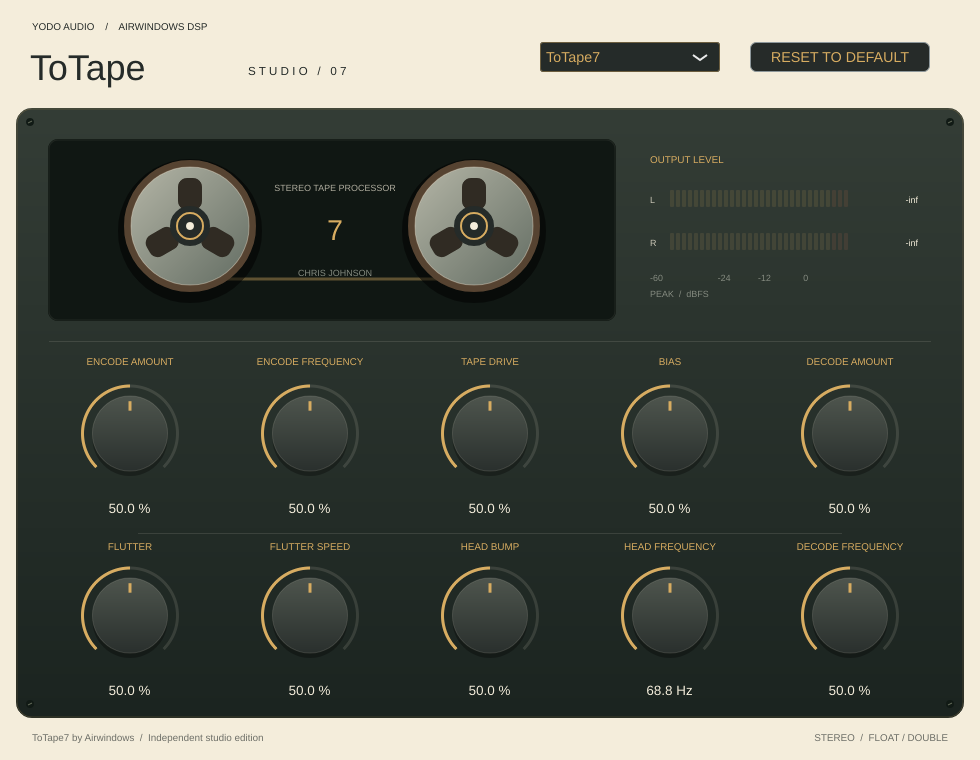
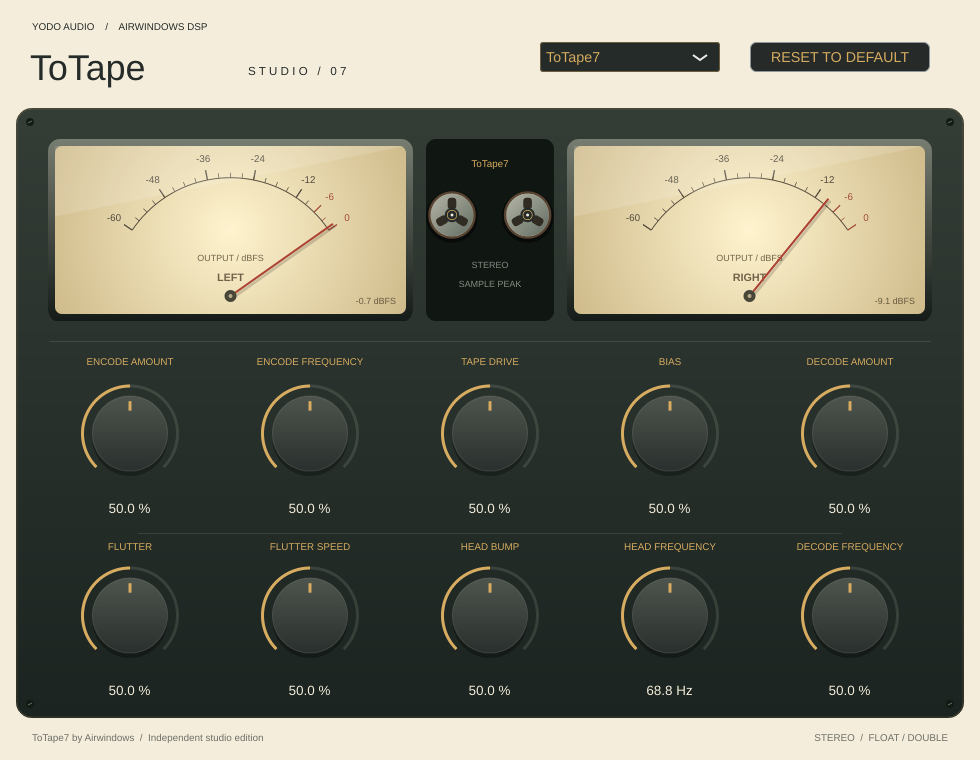
Replace output LED bars with analogue stereo needle meters

Changed region(s): [[0.0306, 0.1816, 0.949, 0.4237]]

diff --git a/Source/Plugin.cpp b/Source/Plugin.cpp
@@ -5,6 +5,7 @@
 #include "TapeControls.h"
 #include "TapeEngine7.h"
 #include "TapeEngine8.h"
+#include "OutputMeter.h"
 
 class TapeProcessor final : public juce::AudioProcessor {
 public:
@@ -173,7 +174,9 @@ public:
         addAndMakeVisible(reset);
         reset.setColour(juce::TextButton::buttonColourId,style::ink);
         reset.setColour(juce::TextButton::textColourOffId,style::gold);
+        addAndMakeVisible(leftMeter); addAndMakeVisible(rightMeter);
         for(int c=0;c<2;++c) levels[c]=processor.peaks[c].load(std::memory_order_relaxed);
+        leftMeter.setPeak(levels[0]); rightMeter.setPeak(levels[1]);
         setSize(980,760); startTimerHz(30);
     }
     ~TapeEditor() override { stopTimer(); setLookAndFeel(nullptr); }
@@ -182,6 +185,8 @@ public:
         for(int j=0;j<5;++j) knobs[static_cast<size_t>(top[j])].setBounds(48+j*180,370,164,150);
         const auto columns=shownVersion==7?5:4;
         for(int j=0;j<columns;++j) knobs[static_cast<size_t>(bottom[j])].setBounds((columns==5?48:138)+j*180,552,164,150);
+        leftMeter.setBounds(48,139,365,182);
+        rightMeter.setBounds(567,139,365,182);
         selector.setBounds(540,42,180,30);
         reset.setBounds(750,42,180,30);
     }
@@ -199,23 +204,18 @@ public:
             g.setColour(juce::Colour(0xff111a15)); g.fillEllipse(x-4,y-4,8,8);
             g.setColour(juce::Colour(0xff646c5b)); g.drawLine(x-2,y+1,x+2,y-1,1);
         }
-        // Recessed transport window, with two vector-drawn tape reels.
-        g.setColour(juce::Colour(0xff101713)); g.fillRoundedRectangle(48,139,568,182,10);
-        g.setColour(cream.withAlpha(.08f)); g.drawRoundedRectangle({49.f,140.f,566.f,180.f},9,1);
-        g.setColour(gold.withAlpha(.4f)); g.drawLine(196,279,468,279,3);
-        drawReel(g,190,226,angle); drawReel(g,474,226,angle);
-        g.setColour(cream.withAlpha(.7f)); g.setFont(juce::FontOptions(10.f));
-        g.drawText("STEREO TAPE PROCESSOR",265,173,140,30,juce::Justification::centred);
-        g.setColour(gold); g.setFont(juce::FontOptions(32.f));
-        g.drawText(juce::String(shownVersion),285,208,100,44,juce::Justification::centred);
-        g.setColour(muted); g.setFont(juce::FontOptions(10.f));
-        g.drawText("CHRIS JOHNSON",265,263,140,20,juce::Justification::centred);
+        // Compact tape transport between the two illuminated analogue output meters.
+        g.setColour(juce::Colour(0xff101713)); g.fillRoundedRectangle(426,139,128,182,10);
         g.setColour(gold); g.setFont(juce::FontOptions(11.f));
-        g.drawText("OUTPUT LEVEL",650,149,270,22,juce::Justification::left);
-        drawMeter(g,0,650,190); drawMeter(g,1,650,233);
+        g.drawText("ToTape"+juce::String(shownVersion),426,153,128,22,juce::Justification::centred);
+        {
+            juce::Graphics::ScopedSaveState transport(g);
+            g.addTransform(juce::AffineTransform::scale(.36f).translated(452,215));
+            drawReel(g,0,0,angle); drawReel(g,210,0,angle);
+        }
         g.setColour(muted); g.setFont(juce::FontOptions(10.f));
-        g.drawText("PEAK  /  dBFS",650,285,270,18,juce::Justification::left);
-        g.drawText("-60                      -24           -12             0",650,270,270,16,juce::Justification::left);
+        g.drawText("STEREO",426,256,128,18,juce::Justification::centred);
+        g.drawText("SAMPLE PEAK",426,275,128,18,juce::Justification::centred);
         g.setColour(cream.withAlpha(.12f)); g.drawHorizontalLine(341,49,931);
         g.drawHorizontalLine(533,138,842);
         const int top[]{0,1,2,5,8},bottom[]{3,4,6,7,9};
@@ -262,24 +262,14 @@ private:
         g.setColour(gold); g.drawEllipse(x-13,y-13,26,26,2);
         g.setColour(cream); g.fillEllipse(x-4,y-4,8,8);
     }
-    void drawMeter(juce::Graphics& g,int c,int x,int y) {
-        const auto db=juce::Decibels::gainToDecibels(levels[c],-60.f);
-        g.setColour(style::cream.withAlpha(.8f)); g.setFont(juce::FontOptions(10.f));
-        g.drawText(c==0?"L":"R",x,y,15,20,juce::Justification::left);
-        for(int i=0;i<30;++i) {
-            const bool active=db>-60.f+static_cast<float>(i)*2.f;
-            auto colour=i>26?juce::Colour(0xffd37755):style::gold;
-            g.setColour(colour.withAlpha(active?1.f:.12f));
-            g.fillRoundedRectangle(static_cast<float>(x+20+i*6),static_cast<float>(y),4,17,1);
-        }
-        g.setColour(style::cream); g.drawText(db<=-60?"-inf":juce::String(db,1),x+208,y,60,20,juce::Justification::right);
-    }
     void timerCallback() override {
         bindVersion(processor.selectedVersion());
         for(int c=0;c<2;++c) levels[c]=juce::jmax(processor.peaks[c].exchange(0,std::memory_order_relaxed),levels[c]*.86f);
+        leftMeter.setPeak(levels[0]); rightMeter.setPeak(levels[1]);
         if(juce::jmax(levels[0],levels[1])>.0001f) angle+=.025f;
         repaint(48,139,884,183);
     }
+    OutputMeter leftMeter{"LEFT"},rightMeter{"RIGHT"};
     TapeProcessor& processor;
     style::Look look;
     std::array<juce::Slider,10> knobs;

diff --git a/Source/OutputMeter.h b/Source/OutputMeter.h
@@ -1,0 +1,62 @@
+#pragma once
+#include <juce_gui_basics/juce_gui_basics.h>
+
+// Read-only output display. It never feeds back into audio processing.
+class OutputMeter final : public juce::Component {
+public:
+    explicit OutputMeter(juce::String channelName) : channel(std::move(channelName)) {
+        setTitle("Output level " + channel);
+        setDescription("Post-tape sample peak in dBFS, with visual decay; not a VU or gain reduction meter");
+        setAccessible(true);
+    }
+    void setPeak(float linearPeak) {
+        db=juce::Decibels::gainToDecibels(juce::jmax(0.f,linearPeak),-60.f);
+        repaint();
+    }
+    float getLevelDb() const { return db; }
+    void paint(juce::Graphics& g) override {
+        auto bounds=getLocalBounds().toFloat();
+        g.setColour(juce::Colours::black.withAlpha(.4f));
+        g.fillRoundedRectangle(bounds.reduced(1).translated(0,3),12);
+        g.setGradientFill(juce::ColourGradient(juce::Colour(0xff777d70),0,0,juce::Colour(0xff151b18),0,bounds.getHeight(),false));
+        g.fillRoundedRectangle(bounds,12);
+        auto face=bounds.reduced(7);
+        g.setGradientFill(juce::ColourGradient(juce::Colour(0xfffff4cf),face.getCentreX(),face.getCentreY(),juce::Colour(0xffcfbb8b),face.getRight(),face.getBottom(),true));
+        g.fillRoundedRectangle(face,7);
+        juce::Graphics::ScopedSaveState clip(g); g.reduceClipRegion(face.toNearestInt());
+        const float cx=bounds.getCentreX(),cy=bounds.getHeight()-25.f;
+        const float radius=juce::jmin(bounds.getWidth()*.385f,bounds.getHeight()*.65f);
+        auto angleFor=[](float value) { return juce::jmap(juce::jlimit(-60.f,0.f,value),-60.f,0.f,-.98f,.98f); };
+        auto point=[cx,cy](float angle,float distance) { return juce::Point<float>{cx+std::sin(angle)*distance,cy-std::cos(angle)*distance}; };
+        juce::Path arc; arc.addCentredArc(cx,cy,radius,radius,0,angleFor(-60),angleFor(0),true);
+        g.setColour(juce::Colour(0xff5a5141)); g.strokePath(arc,juce::PathStrokeType(1));
+        for(int value=-60;value<=0;value+=3) {
+            const bool major=value%12==0 || value==-6;
+            const auto angle=angleFor(static_cast<float>(value));
+            const auto a=point(angle,radius),b=point(angle,radius+(major?10.f:5.f));
+            g.setColour(value>=-6?juce::Colour(0xffa44f3e):juce::Colour(0xff514a3d));
+            g.drawLine({a,b},major?1.3f:.7f);
+            if(major) {
+                const auto centre=point(angle,radius+22);
+                g.setFont(juce::FontOptions(11.f));
+                g.drawText(juce::String(value),juce::Rectangle<float>(28,16).withCentre(centre),juce::Justification::centred);
+            }
+        }
+        g.setColour(juce::Colour(0xff706249)); g.setFont(juce::FontOptions(10.f));
+        g.drawText("OUTPUT / dBFS",0,static_cast<int>(cy-46),getWidth(),16,juce::Justification::centred);
+        g.setFont(juce::FontOptions(12.f).withStyle("Bold"));
+        g.drawText(channel,0,static_cast<int>(cy-27),getWidth(),16,juce::Justification::centred);
+        const auto tip=point(angleFor(db),radius+7);
+        g.setColour(juce::Colours::black.withAlpha(.16f)); g.drawLine(cx+2,cy+2,tip.x+2,tip.y+2,3);
+        g.setColour(juce::Colour(0xffad4234)); g.drawLine(cx,cy,tip.x,tip.y,2);
+        g.setColour(juce::Colour(0xff484639)); g.fillEllipse(cx-6,cy-6,12,12);
+        g.setColour(juce::Colour(0xffb6aa88)); g.fillEllipse(cx-2,cy-2,4,4);
+        g.setColour(juce::Colour(0xff675941)); g.setFont(juce::FontOptions(10.f));
+        g.drawText(db<=-60?"-inf dBFS":juce::String(db,1)+" dBFS",getWidth()-90,getHeight()-28,73,15,juce::Justification::right);
+        juce::Path reflection; reflection.addTriangle(face.getX(),face.getY(),face.getRight(),face.getY(),face.getX(),face.getY()+face.getHeight()*.42f);
+        g.setColour(juce::Colours::white.withAlpha(.14f)); g.fillPath(reflection);
+    }
+private:
+    juce::String channel;
+    float db=-60;
+};

diff --git a/tests/PluginChecks.cpp b/tests/PluginChecks.cpp
@@ -3,6 +3,7 @@
 #include "../Source/TapeEngine.h"
 #include "../Source/TapeEngine7.h"
 #include "../Source/TapeEngine8.h"
+#include "../Source/OutputMeter.h"
 #include <iostream>
 #include <stdexcept>
 void require(bool ok,const char* message) { if(!ok) throw std::runtime_error(message); }
@@ -80,9 +81,26 @@ int main() {
                 require(switched.getSample(c,i)==expected.getSample(c,i),"Switch did not route to a freshly reset original engine");
         }
         p->releaseResources();
+        // Publish unequal real output peaks before opening the editor.
+        p->prepareToPlay(48000,64);
+        juce::AudioBuffer<double> meterAudio(2,64);
+        for(int i=0;i<64;++i) { meterAudio.setSample(0,i,.35*std::sin(i*.08)); meterAudio.setSample(1,i,.07*std::sin(i*.08)); }
+        p->processBlock(meterAudio,midi);
+        const float expectedMeterDb[]{
+            juce::Decibels::gainToDecibels(static_cast<float>(meterAudio.getMagnitude(0,0,64)),-60.f),
+            juce::Decibels::gainToDecibels(static_cast<float>(meterAudio.getMagnitude(1,0,64)),-60.f)};
         // Actual UI selector, independent bank bindings, and selected-bank reset.
         std::unique_ptr<juce::AudioProcessorEditor> editor(p->createEditor());
         require(editor->getWidth()==980 && editor->getHeight()==760,"Wrong editor size");
+        int meterCount=0;
+        for(auto* child:editor->getChildren()) if(auto* meter=dynamic_cast<OutputMeter*>(child)) {
+            const int channel=meter->getTitle().endsWith("LEFT")?0:1;
+            require(editor->getLocalBounds().contains(meter->getBounds()),"Meter outside editor");
+            require(std::abs(meter->getLevelDb()-expectedMeterDb[channel])<1.e-5f,"Analogue meter does not match actual channel output");
+            ++meterCount;
+        }
+        require(meterCount==2,"Missing stereo analogue meters");
+        p->releaseResources();
         juce::ComboBox* selector=nullptr; juce::TextButton* reset=nullptr;
         for(auto* child:editor->getChildren()) {
             if(auto* combo=dynamic_cast<juce::ComboBox*>(child)) selector=combo;

diff --git a/README.md b/README.md
@@ -50,8 +50,9 @@ not Hz readouts. Tape drive at 50% is unity. ToTape7 has no separate Output knob
 [ToTape8 editor preview](docs/ui-preview-8.png)
 
 Stereo input/output; 32- and 64-bit floating-point processing. The output meters
-show stereo sample peaks in dBFS after processing, with visual decay and a −60 dBFS
-floor. They are not VU, loudness, or true-peak meters. Reel motion is decorative
+use illuminated analogue faces, red needles and a −60 to 0 dBFS scale, styled
+after ButterComp Studio. They show stereo sample peaks after processing, with
+visual decay and a −60 dBFS floor. They are not VU, loudness, or true-peak meters. Reel motion is decorative
 and follows signal activity, not simulated physical tape speed. The original output stages are retained:
 ClipOnly2 for ToTape7/8, ClipOnly3 for ToTape9. One sample of small-signal latency is reported
 to the host; flutter additionally introduces its original variable delay.

diff --git a/THIRD_PARTY.md b/THIRD_PARTY.md
@@ -30,7 +30,7 @@ written test interface for compiling the original source in reference tests.
 
 ## UI reference
 
-The initial JUCE wrapper/build structure and rotary drawing style are adapted
+The initial JUCE wrapper/build structure and rotary/analogue-meter drawing styles are adapted
 from ButterComp Studio, https://github.com/johandoornenbal/codex-tryout,
 commit `3d2daf0d2f350d73640bd03d3f9210cd1b09bbf6` (MIT).
 Its license notice is retained in `third_party/ButterComp-LICENSE`.
